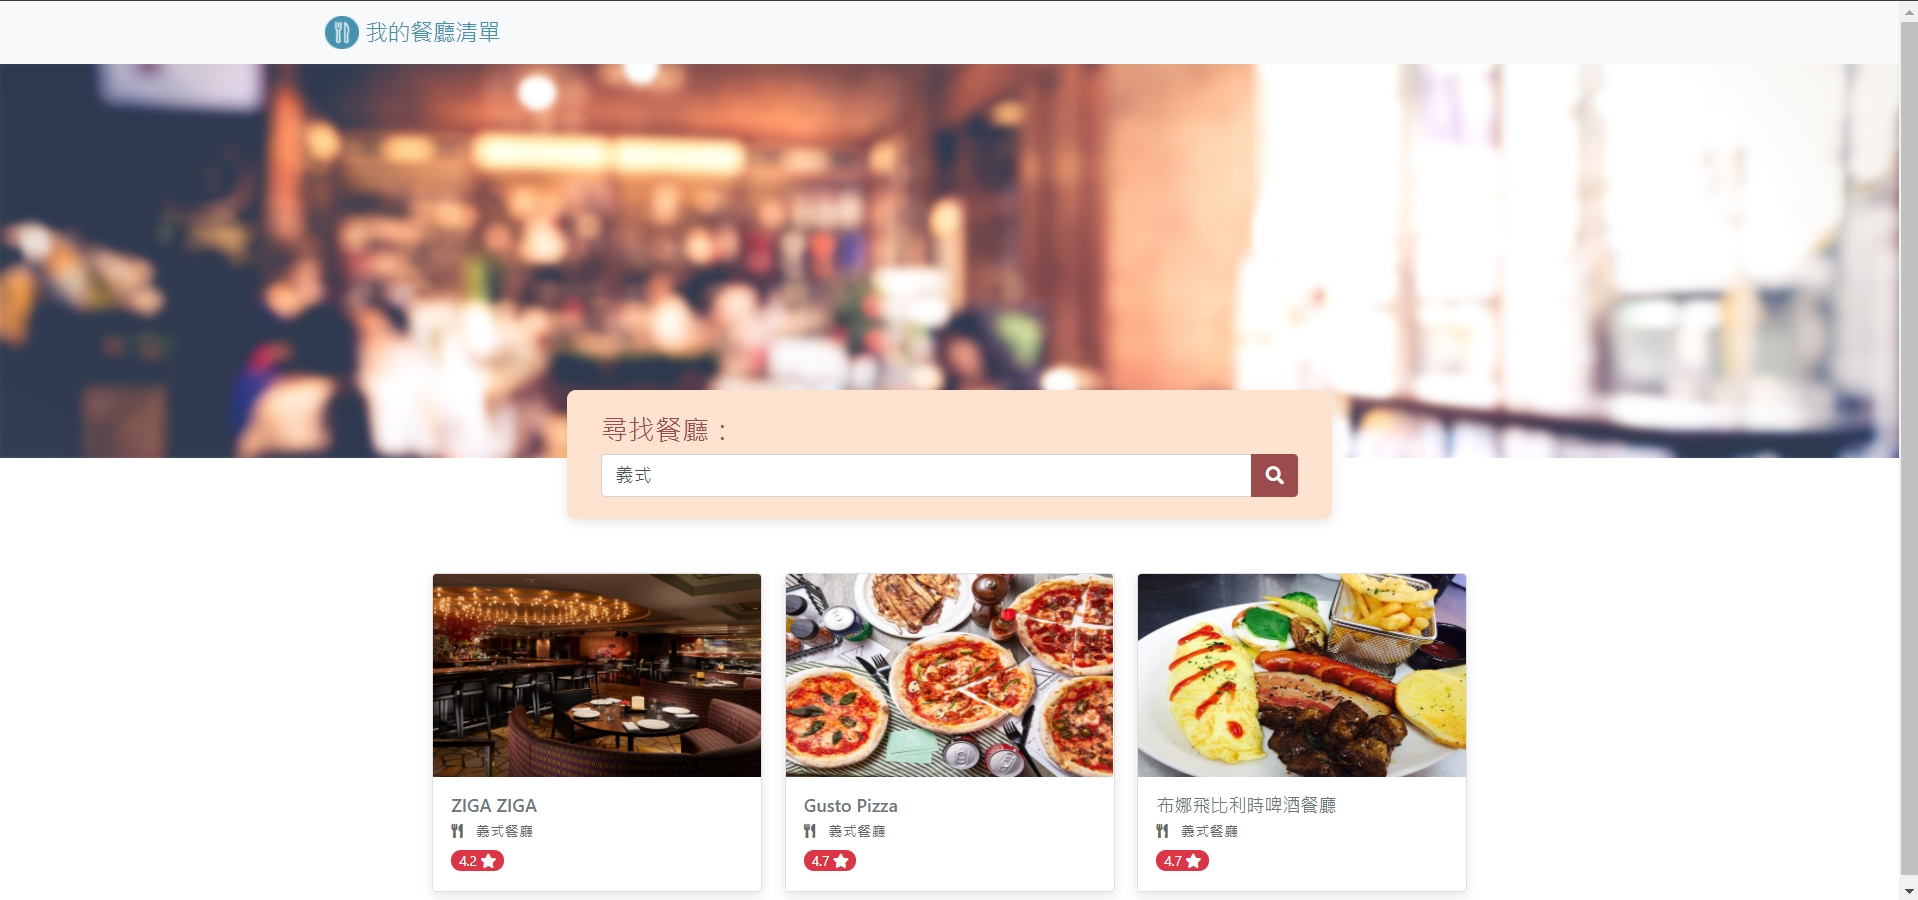
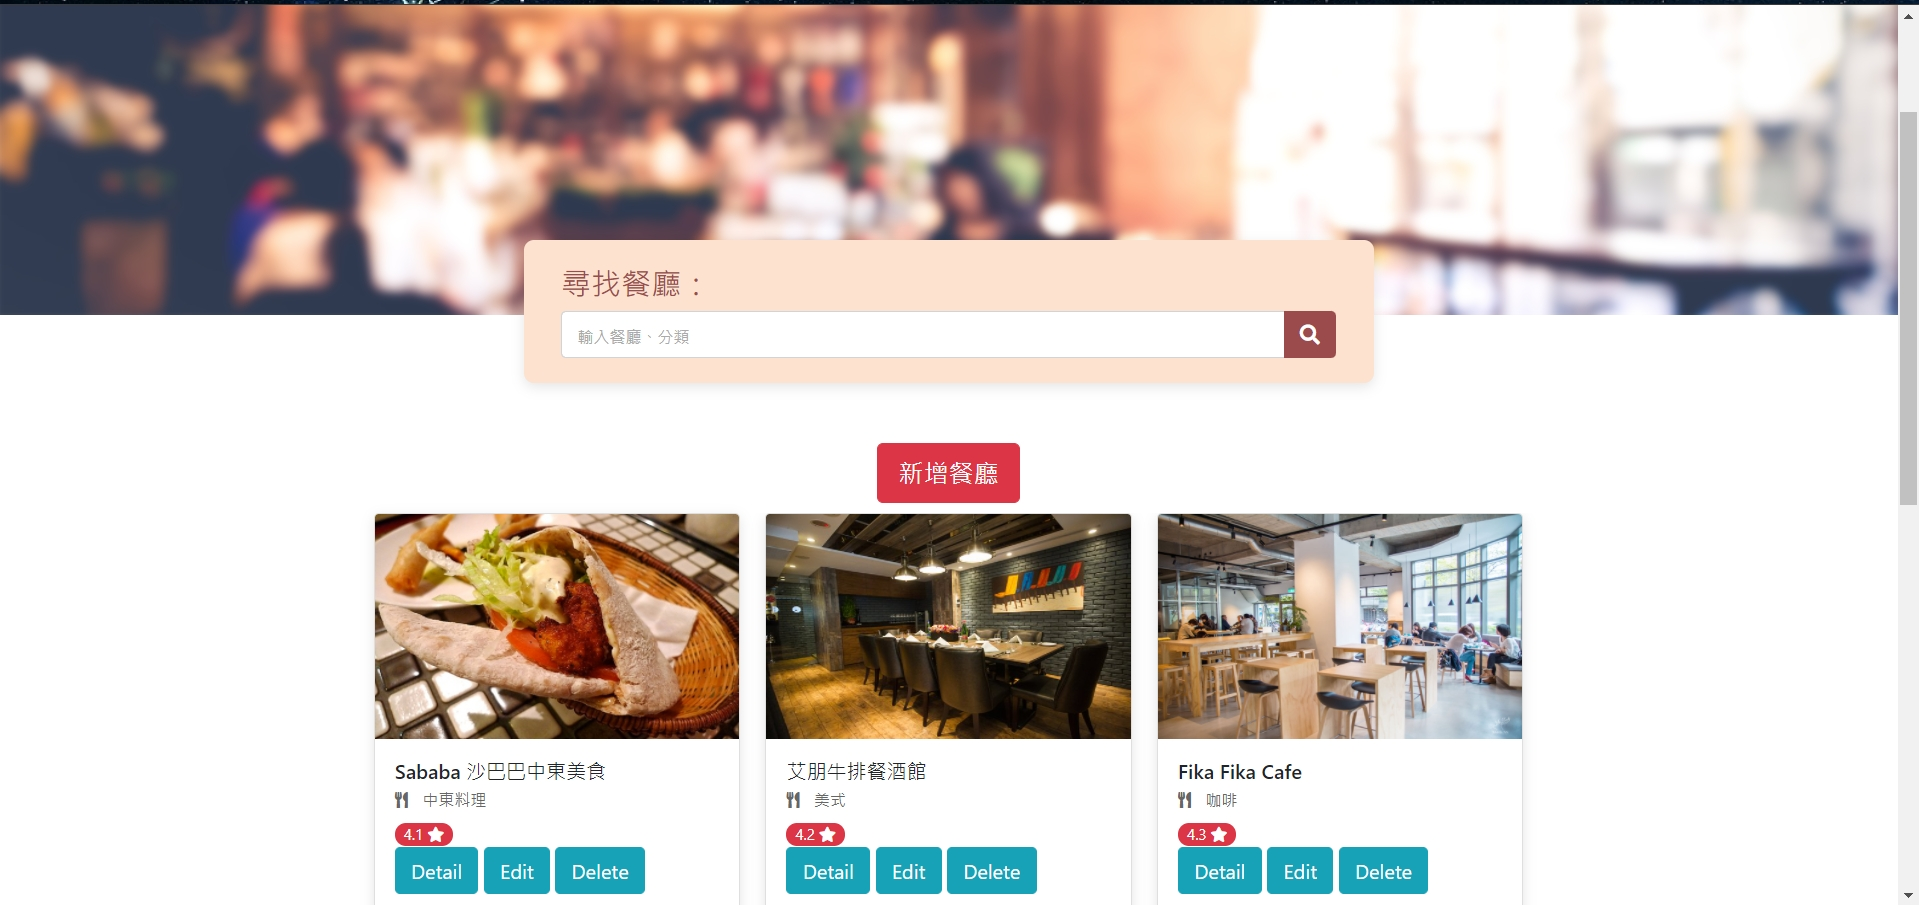
feat: modify README content

diff --git a/README.md b/README.md
@@ -7,14 +7,19 @@
 
 ## Features 產品功能
 
-1. 使用者點擊餐廰畫面即可觀看該餐廳詳細資訊
+1. 使用者點擊餐廰圖片或Detail按鈕即可觀看該餐廳詳細資訊
 2. 使用者可使用搜尋表單輸入想搜尋的關於該餐廳的名稱或種類關鍵字搜尋餐廳
 3. 使用者搜尋的關鍵字無符合餐廳，會顯示沒有符合的資訊給使用者
+4. 使用者可以新增餐廳資料
+5. 使用者可以刪除餐廳資料
+6. 使用者可以修改餐廳詳細資料
 
 ## Environment Setup 環境建置
 * Node.js： ^14.16.0
 * Express： ^4.17.1
 * Express-handlebars： ^5.3.4
+* mongoose： ^6.0.12
+* mongodb
 
 ## Installing 專案安裝流程
 1. 打開您的終端機(terminal)，複製(clone)專案至本機
@@ -32,12 +37,17 @@ cd restaurant_list
 npm install
 ```
 
-4. 啟動伺服器，執行app.js檔案
+4. 使用腳本，創建種子資料
 ```
-node app.js
+npm run seed
 ```
 
-5. 當終端機(terminal)出現以下文字，代表伺服器已啟動
+5. 使用腳本，即可啟動伺服器
+```
+npm run dev
+```
+
+6. 當終端機(terminal)出現以下文字，代表伺服器已啟動
 ```
 Express is running on http://localhost:3000
 ```
